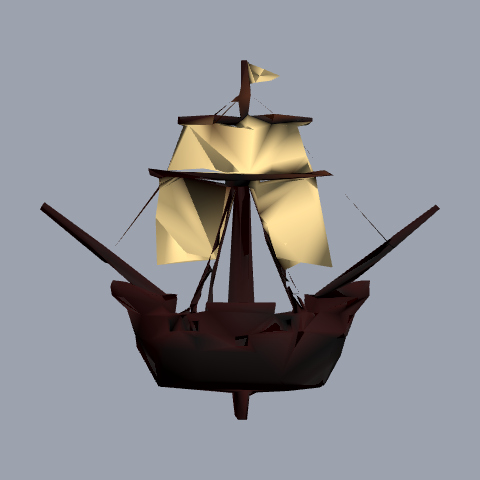
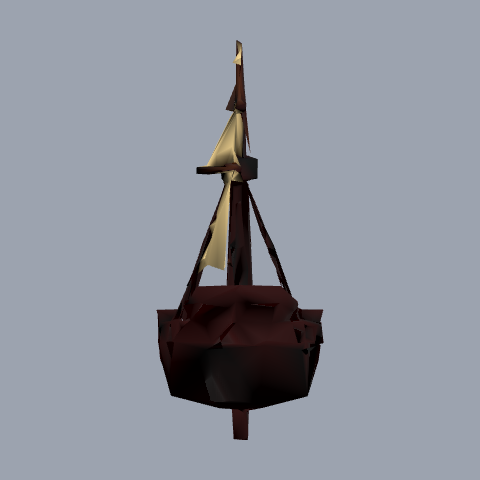
fix(assets): pirate ship bow along +x, not its broadside
The hero gallery showed gen3d-pirate-ship broadside: its keel lies along x (hull 0.70 x 0.42 from above, bowsprit spars at both x ends, sails edge-on from +-x). Override forward to +x in p32-forward.json, regenerate entries/catalog.json and the gallery; the ship now faces the camera bow-on.

implementation-notes: the model is near-symmetric along x; +x is the bow by the masthead pennant and the forked bowsprit. The other 11 idle snapshots were checked by eye and face the camera (the rocket is symmetric).

diff --git a/evals/play/p32/heroes/README.md b/evals/play/p32/heroes/README.md
@@ -12,7 +12,7 @@ Generuje `e2e/p32-heroes.spec.ts` – needitovat ručně. Hrdina a nepřítel ka
 | penguin | hrdina | `rigged:pet-penguin` | identity | Kenney, CC0-1.0 – Kenney Cube Pets – https://kenney.nl/media/pages/assets/cube-pets/44e58e945f-1774520254/kenney_cube-pets_1.0.zip#Models/GLB format/animal-penguin.glb | idle `idle`, run `run`, jump –, hit –, die – | 0.1 px | 0.12 | 61 % / 57 % | ![stojka](penguin-idle.png) ![běh](penguin-run.png) |
 | firefighter robot | hrdina | `rigged:blocky-robot` | identity | Kenney, CC0-1.0 – Kenney Blocky Characters – https://kenney.nl/media/pages/assets/blocky-characters/8369c0cf30-1749547469/kenney_blocky-characters_20.zip#Models/GLB format/character-g.glb | idle `idle`, run `sprint`, jump –, hit –, die `die` | 0.0 px | 0.24 | 83 % / 75 % | ![stojka](firefighter-robot-idle.png) ![běh](firefighter-robot-run.png) |
 | wizard | hrdina | `rigged:mage` | identity | Kay Lousberg, CC0-1.0 – KayKit Character Pack: Adventurers 1.0 – https://raw.githubusercontent.com/KayKit-Game-Assets/KayKit-Character-Pack-Adventures-1.0/main/addons/kaykit_character_pack_adventures/Characters/gltf/Mage.glb | idle `Idle`, run `Running_A`, jump `Jump_Idle`, hit `Hit_A`, die `Death_A` | 0.2 px | -0.08 | 83 % / 80 % | ![stojka](wizard-idle.png) ![běh](wizard-run.png) |
-| pirate ship | hrdina | `gen3d-pirate-ship` | identity | Worldsmith project – generated by ops/gen3d, LicenseRef-Worldsmith-Generated – ops/gen3d; scripts/assets/gen3d/promote.mjs | idle –, run –, jump –, hit –, die – | 0.1 px | 0.02 | 75 % / 75 % | ![stojka](pirate-ship-idle.png) ![běh](pirate-ship-run.png) |
+| pirate ship | hrdina | `gen3d-pirate-ship` | identity | Worldsmith project – generated by ops/gen3d, LicenseRef-Worldsmith-Generated – ops/gen3d; scripts/assets/gen3d/promote.mjs | idle –, run –, jump –, hit –, die – | 0.0 px | 0.03 | 83 % / 80 % | ![stojka](pirate-ship-idle.png) ![běh](pirate-ship-run.png) |
 | cat | hrdina | `rigged:pet-cat` | identity | Kenney, CC0-1.0 – Kenney Cube Pets – https://kenney.nl/media/pages/assets/cube-pets/44e58e945f-1774520254/kenney_cube-pets_1.0.zip#Models/GLB format/animal-cat.glb | idle `idle`, run `run`, jump –, hit –, die – | 0.0 px | 0.08 | 83 % / 80 % | ![stojka](cat-idle.png) ![běh](cat-run.png) |
 | chef | hrdina | `waiter` | identity | Worldsmith project — AI-assisted original geometry (Blender), LicenseRef-Worldsmith-Original – scripts/assets/blender/game_models.py; scripts/assets/game-models.mjs | idle –, run –, jump –, hit –, die – | 0.0 px | 0.03 | 83 % / 80 % | ![stojka](chef-idle.png) ![běh](chef-run.png) |
 | dog | hrdina | `rigged:pet-dog` | identity | Kenney, CC0-1.0 – Kenney Cube Pets – https://kenney.nl/media/pages/assets/cube-pets/44e58e945f-1774520254/kenney_cube-pets_1.0.zip#Models/GLB format/animal-dog.glb | idle `idle`, run `run`, jump –, hit –, die – | 0.0 px | 0.07 | 83 % / 79 % | ![stojka](dog-idle.png) ![běh](dog-run.png) |
